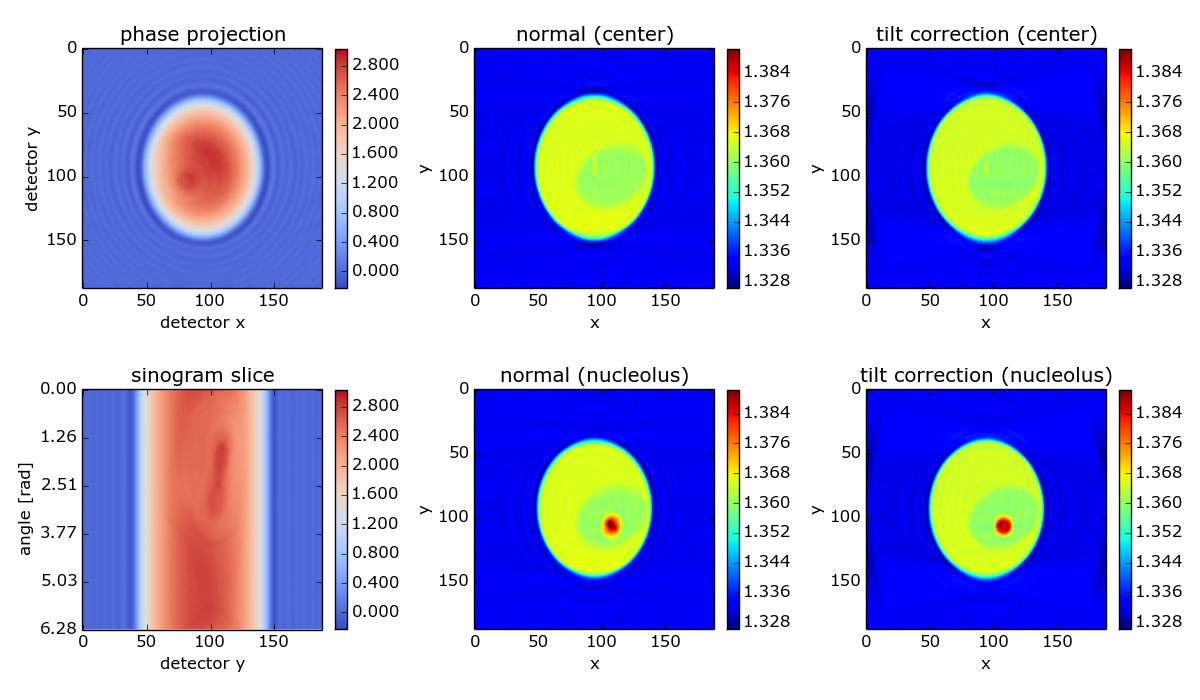
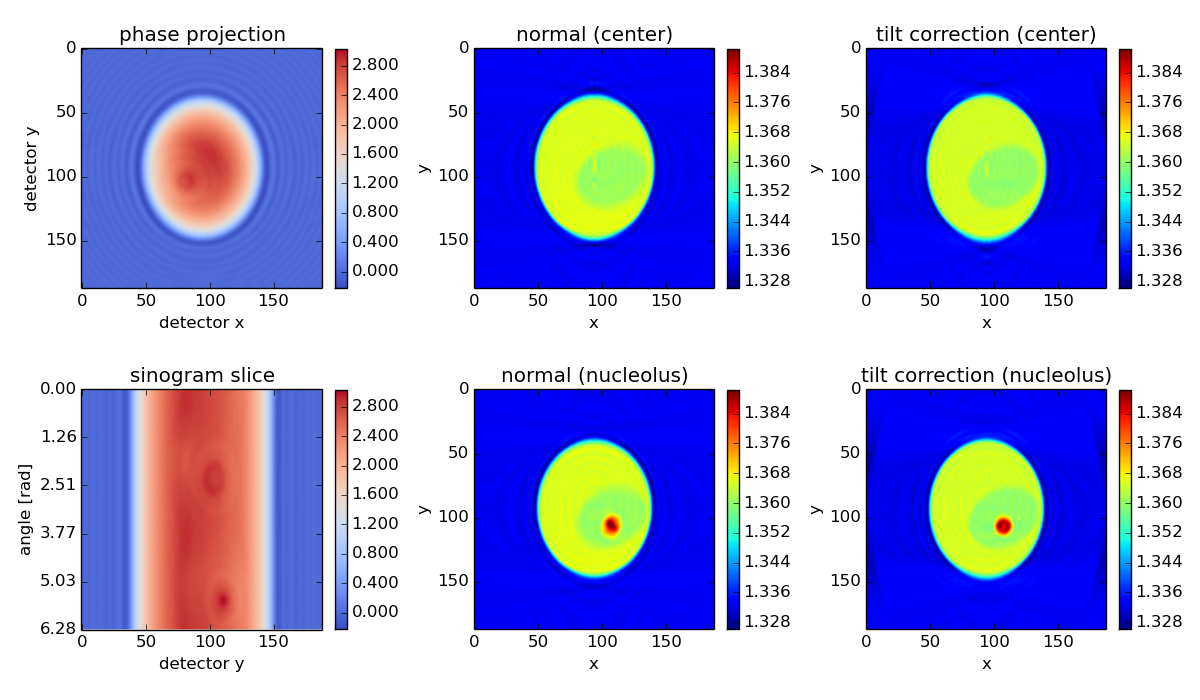
add another tilt example and update doc

diff --git a/examples/backprop_from_fdtd_3d_tilted2.py b/examples/backprop_from_fdtd_3d_tilted2.py
@@ -1,33 +1,24 @@
 #!/usr/bin/env python
 # -*- coding: utf-8 -*-
 """ 
-3D cell phantom with tilted axis of rotation (FDTD simulation)
-~~~~~~~~~~~~~~~~~~~~~~~~~~~~~~~~~~~~~~~~~~~~~~~~~~~~~~~~~~~~~~
+3D cell phantom with souble-tilted axis of rotation (FDTD simulation)
+~~~~~~~~~~~~~~~~~~~~~~~~~~~~~~~~~~~~~~~~~~~~~~~~~~~~~~~~~~~~~~~~~~~~~
 The *in silico* data set was created with the 
 :abbr:`FDTD (Finite Difference Time Domain)` software `meep`_. The data
 are 2D projections of a 3D refractive index phantom that is rotated about
 an axis which is tilted by 0.2 rad (11.5 degrees) with respect to the imaging
-plane. The example showcases the method :func:`odtbrain.backpropagate_3d_tilted`
-which takes into account such a tilted axis of rotation. The data are
-downsampled by a factor of two. A total of 220 projections are used for the
-reconstruction. Note that the information required for reconstruction
-decreases as the tilt angle increases. If the tilt angle is 90 degrees w.r.t.
-the imaging plane, then we get a rotating image of a cell (not images of a 
-rotating cell) and tomographic reconstruction is impossible. A brief description
-of this algorithm is given in [3]_.
+plane and by -.42 rad (-24.1 degrees) within the imaging plane. The data
+is the same as was used in the previous example. A brief description of this
+algorithm is given in [3]_.
 
-.. figure::  ../examples/backprop_from_fdtd_3d_tilted_repo.png
+.. figure::  ../examples/backprop_from_fdtd_3d_tilted2_repo.png
    :align:   center
 
    3D reconstruction from :abbr:`FDTD (Finite Difference Time Domain)`
-   data created by `meep`_ simulations. The first column shows the
-   measured phase, visualizing the tilt (compare to other examples). The
-   second column shows a reconstruction that does not take into account
-   the tilted axis of rotation; the result is a blurry reconstruction.
-   The third column shows the improved reconstruction; the known tilted
-   axis of rotation is used in the reconstruction process.
+   data created by `meep`_ simulations. The known tilted axis of
+   rotation is used in the reconstruction process.
 
-Download the :download:`full example <../examples/backprop_from_fdtd_3d_tilted.py>`.
+Download the :download:`full example <../examples/backprop_from_fdtd_3d_tilted2.py>`.
 If you are not running the example from the git repository, make sure the
 file :download:`example_helper.py <../examples/example_helper.py>` is present
 in the current directory.
@@ -105,6 +96,8 @@ if __name__ == "__main__":
     
     import odtbrain as odt
     
+
+
     try:
         # use jobmanager if available
         import jobmanager as jm
@@ -116,7 +109,19 @@ if __name__ == "__main__":
 
 
     lzmafile = get_file("fdtd_3d_sino_A220_R6.500_tiltyz0.2.tar.lzma")
+    
     sino, angles, phantom, cfg = load_tar_lzma_data(lzmafile)
+
+    # Perform titlt by -.42 rad in detector plane    
+    rotang = -0.42
+    from scipy.ndimage import rotate
+    rotkwargs= {"mode":"constant",
+                "order":2,
+                "reshape":False,
+                }
+    for ii in range(len(sino)):
+        sino[ii].real = rotate(sino[ii].real, np.rad2deg(rotang), cval=1, **rotkwargs)
+        sino[ii].imag = rotate(sino[ii].imag, np.rad2deg(rotang), cval=0, **rotkwargs)
 
     A = angles.shape[0]
     
@@ -127,30 +132,21 @@ if __name__ == "__main__":
     print("Axis tilt in y-z direction:", cfg["tilt_yz"])
     print("Number of projections:", A)
     
-    print("Performing normal backpropagation.")
     ## Apply the Rytov approximation
     sinoRytov = odt.sinogram_as_rytov(sino)
 
-    ## Perform naive backpropagation
-    f_name_naiv = "f_naiv.npy"
-    if not os.path.exists(f_name_naiv):
-        f_naiv = odt.backpropagate_3d( uSin=sinoRytov,
-                                       angles=angles,
-                                       res=cfg["res"],
-                                       nm=cfg["nm"],
-                                       lD=cfg["lD"]
-                                       )
-        np.save(f_name_naiv, f_naiv)
-    else:
-        f_naiv = np.load(f_name_naiv)
-
-
-    print("Performing tilted backpropagation.")
     ## Determine tilted axis
     tilted_axis = [0, np.cos(cfg["tilt_yz"]), np.sin(cfg["tilt_yz"])]
-    
+    rotmat = np.array([ 
+                       [np.cos(rotang), -np.sin(rotang),0],
+                       [np.sin(rotang), np.cos(rotang),0],
+                       [0,0,1],
+                       ])
+    tilted_axis = np.dot(rotmat, tilted_axis)
+
+    print("Performing tilted backpropagation.")
     ## Perform tilted backpropagation
-    f_name_tilt = "f_tilt.npy"
+    f_name_tilt = "f_tilt2.npy"
     if not os.path.exists(f_name_tilt):
         f_tilt = odt.backpropagate_3d_tilted( uSin=sinoRytov,
                                               angles=angles,
@@ -164,7 +160,6 @@ if __name__ == "__main__":
         f_tilt = np.load(f_name_tilt)
 
     ## compute refractive index n from object function
-    n_naiv = odt.odt_to_ri(f_naiv, res=cfg["res"], nm=cfg["nm"])
     n_tilt = odt.odt_to_ri(f_tilt, res=cfg["res"], nm=cfg["nm"])
 
     sx, sy, sz = n_tilt.shape
@@ -174,59 +169,42 @@ if __name__ == "__main__":
     sino_phase = np.angle(sino)    
     
     ## compare phantom and reconstruction in plot
-    fig, axes = plt.subplots(2, 3, figsize=(12,7), dpi=300)
+    fig, axes = plt.subplots(1, 3, figsize=(12,3.5), dpi=300)
     kwri = {"vmin": n_tilt.real.min(), "vmax": n_tilt.real.max()}
     kwph = {"vmin": sino_phase.min(), "vmax": sino_phase.max(), "cmap":plt.cm.coolwarm}  # @UndefinedVariable
     
     
     # Sinorgam
-    axes[0,0].set_title("phase projection")    
-    phmap=axes[0,0].imshow(sino_phase[int(A/2),:,:], **kwph)
-    axes[0,0].set_xlabel("detector x")
-    axes[0,0].set_ylabel("detector y")
+    axes[0].set_title("phase projection")    
+    phmap=axes[0].imshow(sino_phase[int(A/2),:,:], **kwph)
+    axes[0].set_xlabel("detector x")
+    axes[0].set_ylabel("detector y")
 
-    axes[1,0].set_title("sinogram slice")    
-    axes[1,0].imshow(sino_phase[:,:,int(sino.shape[2]/2)], aspect=sino.shape[1]/sino.shape[0], **kwph)
-    axes[1,0].set_xlabel("detector y")
-    axes[1,0].set_ylabel("angle [rad]")
+    axes[1].set_title("sinogram slice")    
+    axes[1].imshow(sino_phase[:,:,int(sino.shape[2]/2)], aspect=sino.shape[1]/sino.shape[0], **kwph)
+    axes[1].set_xlabel("detector y")
+    axes[1].set_ylabel("angle [rad]")
     # set y ticks for sinogram
-    labels = np.linspace(0, 2*np.pi, len(axes[1,1].get_yticks()))
+    labels = np.linspace(0, 2*np.pi, len(axes[1].get_yticks()))
     labels = [ "{:.2f}".format(i) for i in labels ]
-    axes[1,0].set_yticks(np.linspace(0, len(angles), len(labels)))
-    axes[1,0].set_yticklabels(labels)
+    axes[1].set_yticks(np.linspace(0, len(angles), len(labels)))
+    axes[1].set_yticklabels(labels)
 
-    axes[0,1].set_title("normal (center)")
-    rimap = axes[0,1].imshow(n_naiv[int(sx/2)].real, **kwri)
-    axes[0,1].set_xlabel("x") 
-    axes[0,1].set_ylabel("y")
-
-    axes[1,1].set_title("normal (nucleolus)")
-    axes[1,1].imshow(n_naiv[int(sx/2)+2*cfg["res"]].real, **kwri)
-    axes[1,1].set_xlabel("x")    
-    axes[1,1].set_ylabel("y")
-
-    axes[0,2].set_title("tilt correction (center)")
-    axes[0,2].imshow(n_tilt[int(sx/2)].real, **kwri)
-    axes[0,2].set_xlabel("x")
-    axes[0,2].set_ylabel("y")
-
-    axes[1,2].set_title("tilt correction (nucleolus)")
-    axes[1,2].imshow(n_tilt[int(sx/2)+2*cfg["res"]].real, **kwri)
-    axes[1,2].set_xlabel("x")
-    axes[1,2].set_ylabel("y")
+    axes[2].set_title("tilt correction (nucleolus)")
+    rimap=axes[2].imshow(n_tilt[int(sx/2)+2*cfg["res"]].real, **kwri)
+    axes[2].set_xlabel("x")
+    axes[2].set_ylabel("y")
 
     # color bars
     cbkwargs = {"fraction": 0.045,
                 "format":"%.3f"}
-    plt.colorbar(phmap, ax=axes[0,0], **cbkwargs)
-    plt.colorbar(phmap, ax=axes[1,0], **cbkwargs)
-    plt.colorbar(rimap, ax=axes[0,1], **cbkwargs)
-    plt.colorbar(rimap, ax=axes[1,1], **cbkwargs)
-    plt.colorbar(rimap, ax=axes[0,2], **cbkwargs)
-    plt.colorbar(rimap, ax=axes[1,2], **cbkwargs)
+    plt.colorbar(phmap, ax=axes[0], **cbkwargs)
+    plt.colorbar(phmap, ax=axes[1], **cbkwargs)
+    plt.colorbar(rimap, ax=axes[2], **cbkwargs)
 
     plt.tight_layout()
     
-    outname = join(DIR, "backprop_from_fdtd_3d_tilted.png")
+    outname = join(DIR, "backprop_from_fdtd_3d_tilted2.png")
     print("Creating output file:", outname)
     plt.savefig(outname)
+

diff --git a/odtbrain/__init__.py b/odtbrain/__init__.py
@@ -28,7 +28,7 @@ Theoretical background
 ----------------------
 A detailed summary of the underlying theory is available in [1]_.
 
-The Fourier diffraction theorem states, that the Fourier transform
+The Fourier diffraction theorem ([4]_, [5]_) [states, that the Fourier transform
 :math:`\widehat{U}_{\mathrm{B},\phi_0}(\mathbf{k_\mathrm{D}})` of 
 the scattered field :math:`u_\mathrm{B}(\mathbf{r_D})`, measured at 
 a certain angle :math:`\phi_0`, is distributed along a circular arc 

diff --git a/doc/index.rst b/doc/index.rst
@@ -43,6 +43,9 @@ Examples
 
 .. automodule:: backprop_from_fdtd_3d_tilted
 
+.. automodule:: backprop_from_fdtd_3d_tilted2
+
+
 References
 ==========
 .. [1] P. Müller, M. Schürmann, and J. Guck, *The Theory of Diffraction
@@ -58,3 +61,10 @@ References
        diffraction tomography with optofluidic rotation about a tilted axis*.
        Proc. of SPIE, `doi:10.1117/12.2191501 
        <http://dx.doi.org/10.1117/12.2191501>`_ (2015)
+
+.. [4] A. C. Kak and M. Slaney, *Principles of Computerized Tomographic Imaging*.
+       Philadelphia, USA: SIAM, 2001.
+
+.. [5] E. Wolf, *Three-dimensional structure determination of semi-transparent
+       objects from holographic data*. Opt. Commun., vol. 1, no. 4, pp. 153–156,
+       Sep. 1969.
